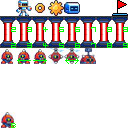
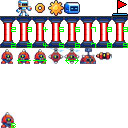
DroneEnemy実装

Changed region(s): [[0.75, 0.4062, 0.875, 0.4688]]

diff --git a/WinterGame_2025/Source/Systems/EnemyManager.cpp b/WinterGame_2025/Source/Systems/EnemyManager.cpp
@@ -9,6 +9,8 @@
 #include "../GameObjects/Enemies/WalkEnemy.h"
 #include "../GameObjects/Enemies/FlyEnemy.h"
 #include "../GameObjects/Enemies/JumpEnemy.h"
+#include "../GameObjects/Enemies/DroneEnemy.h"
+
 #include "../GameObjects/Enemies/Boss.h"
 
 EnemyManager::EnemyManager(std::shared_ptr<Player> pPlayer, std::shared_ptr<Map> pMap, std::shared_ptr<Camera> pCamera, std::shared_ptr<GimmickManager> pGimmickManager):
@@ -23,6 +25,8 @@ EnemyManager::EnemyManager(std::shared_ptr<Player> pPlayer, std::shared_ptr<Map>
 	assert(_flyEnemyH != -1);
 	_jumpEnemyH = LoadGraph("data/Enemys/JumpEnemy.png");
 	assert(_jumpEnemyH != -1);
+	_droneEnemyH = LoadGraph("data/Enemys/DroneEnemy.png");
+	assert(_droneEnemyH != -1);
 }
 
 EnemyManager::~EnemyManager()
@@ -30,6 +34,7 @@ EnemyManager::~EnemyManager()
 	DeleteGraph(_walkEnemyH);
 	DeleteGraph(_flyEnemyH);
 	DeleteGraph(_jumpEnemyH);
+	DeleteGraph(_droneEnemyH);
 }
 
 void EnemyManager::Update()
@@ -101,8 +106,12 @@ void EnemyManager::LoadEnemies(const std::vector<uint16_t>& objectData, Size siz
 			case ObjectData::JumpEnemy:
 				_pEnemies.push_back(std::make_shared<JumpEnemy>(pos, _pPlayer, _jumpEnemyH));
 				break;
+			case ObjectData::DroneEnemy:
+				_pEnemies.push_back(std::make_shared<DroneEnemy>(pos, _pPlayer, _droneEnemyH));
+				break;
 			case ObjectData::BossEnemy1:
 				_pEnemies.push_back(std::make_shared<Boss>(_pPlayer, _pCamera, _pGimmickManager->AddBossLaser(), _walkEnemyH));
+				break;
 			default:
 				break;
 			}

diff --git a/WinterGame_2025/Source/GameObjects/Enemies/DroneEnemy.h b/WinterGame_2025/Source/GameObjects/Enemies/DroneEnemy.h
@@ -1,5 +1,13 @@
 #pragma once
 #include "Enemy.h"
+
+enum class DroneEnemyState
+{
+    Search,
+    Attack,
+    Return
+};
+
 class DroneEnemy :
     public Enemy
 {
@@ -12,4 +20,7 @@ public:
     void Draw(Vector2 offset) override;
 private:
     int _handle = -1;
+    int _frame = 0;
+    float _firstPosY;
+    DroneEnemyState _state = DroneEnemyState::Search;
 };

diff --git a/WinterGame_2025/Source/Game.h b/WinterGame_2025/Source/Game.h
@@ -64,6 +64,7 @@ enum class ObjectData : int
 	FlyEnemyIdle,
 	FlyEnemyMove,
 	JumpEnemy,
+	DroneEnemy,
 
 	BossEnemy1 = 56,
 };
